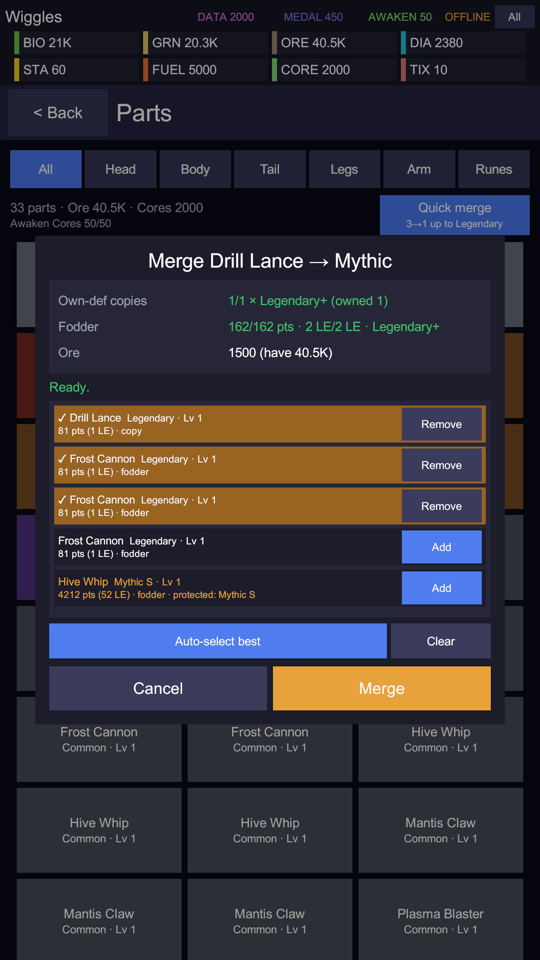
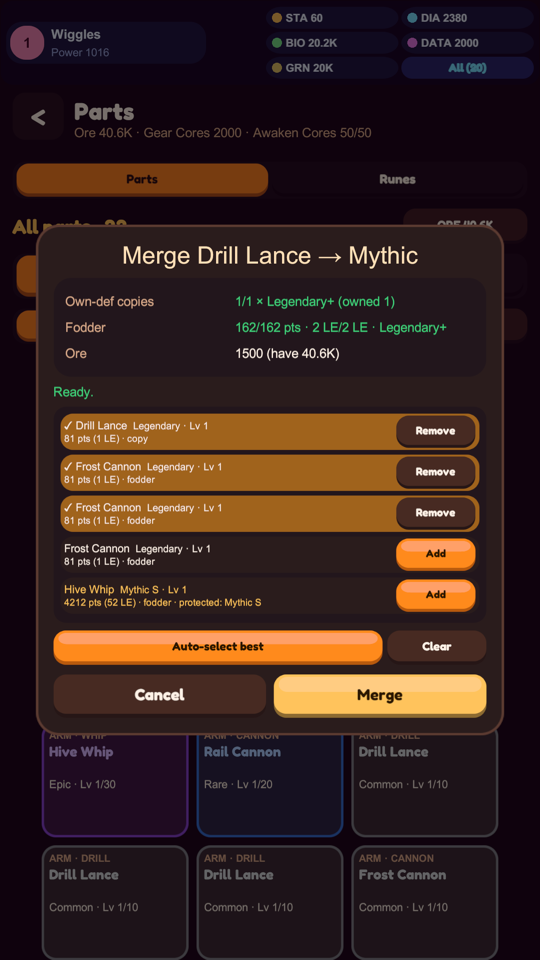
docs: gear screen, currency explainers, Worm badge, tests; refreshed gear screenshots

diff --git a/docs/client.md b/docs/client.md
@@ -15,10 +15,10 @@ referenced as the local UPM package `com.roguestars.rules` and compile into `Rog
 | `Assets/GooglePlayGames/` | `Google.Play.Games` | Google Play Games plugin for Unity v2.3.0 (official `.unitypackage`, without its bundled EDM copy) |
 | `Packages/google/*.tgz` | – | Firebase App/Auth 14.2.0 + External Dependency Manager 1.2.190 from Google's archive, fetched by `scripts/fetch-unity-packages.sh` (git-ignored, SHA-256 pinned) |
 | `Assets/Plugins/Android/RogueStarsConfig.androidlib` | – | manifest additions: Play Billing permission, Firebase Analytics off, `AD_ID` removed while ads are disabled |
-| `Assets/Scripts/App/` | `RogueStars.Client` | `ClientApp` (composition root), `GameSession`, `UiScreen` + `ScreenRouter`, `ToastCenter`, `ResourceBar`, `ScreenCatalog`, `AppBootstrap` |
+| `Assets/Scripts/App/` | `RogueStars.Client` | `ClientApp` (composition root), `GameSession`, `UiScreen` + `ScreenRouter`, `ToastCenter`, `ResourceBar`, `ScreenCatalog`, `AppBootstrap`, `GearGuide` / `CurrencyGuide` (inventory filters, part level-up affordability, currency uses → screens) |
 | `Assets/Scripts/Ui/` | `RogueStars.Client` | `Ui` toolkit (namespace `RogueStars.Client.UiKit`), `Theme`, `UiShapes` (runtime rounded sprites), `UiMotion` (`UiTweens`, `UiBob`, `UiPulse`), `UiTween`, `UiSequence`, `SafeAreaFitter` |
 | `Assets/Resources/Fonts/` | – | `Fredoka-Bold.ttf` (display font: static wght 700 instance of Fredoka[wdth,wght] from the google/fonts repo, made with fontTools `varLib.instancer`) + `Fredoka-OFL.txt` (SIL Open Font License 1.1) |
-| `Assets/Scripts/Screens/` | `RogueStars.Client` | One class per screen |
+| `Assets/Scripts/Screens/` | `RogueStars.Client` | One class per screen (`GearScreen` = shared base of Worm and Parts: inventory, part detail, merge picker, awakening, runes) |
 | `Assets/Scripts/Minigames/` | `RogueStars.Client` | Run mini-games: `Logic/` (one Unity-free class per game + `MinigameLogic` base + `MinigameCatalog`), `MinigameRenderer` (shapes → pooled uGUI nodes), `MinigameHost` (the full-screen flow) |
 | `Assets/Editor/` | `RogueStars.Client.Editor` | `Bootstrap`, `ProjectSetup`, `BuildAndroid` |
 | `Assets/Tests/EditMode/` | `RogueStars.Client.Tests` | EditMode tests |
@@ -36,6 +36,16 @@ AppBootstrap (only object in Main.unity)
      ├─ ToastCenter ── GameEvents (EventText: display names only, never uids/player ids), errors and info: max 2, 1.8 s, in a strip above the screen's bottom bar
      └─ ResourceBar ── profile chip (worm level, name, power → profile: Worm, Settings) + up to 5 currency chips the player has a use for (HubLayout.VisibleCurrencies = the rules' reward-use mapping, RewardGate.CurrencyHasUse; a new account shows stamina and Diamonds) with regen timers (live); "All" opens every balance
 ```
+- **Currency explainers** (`App/GearGuide.cs` → `CurrencyGuide`, `ResourceBar.ShowCurrency`): every currency chip is tappable
+  and opens "Ore — You have 500 — What it's for: Part levels and merges, the Replicator, city buildings" (the rules'
+  `ContentDb.RewardUses` text, the same mapping that decides which currencies show), a line about what the player can do
+  now (Ore: "You can level up 2 equipped parts right now") and **Go to …**: the screen of the first unlocked use
+  (`CurrencyGuide.SpendScreen`: a feature use → the screen its unlock moment opens, `HubLayout.UnlockAction`; a part-rarity
+  use → the Worm; stamina → Portals; Diamonds → Shop once unlocked, else Portals). Already on the Worm/Parts, Go scrolls to
+  the inventory. "All" lists every currency with its use; a row opens its explainer. The part detail's Ore balance and the
+  inventory's ORE chip open the Ore explainer.
+- **Worm tab badge**: "▲ UP" when an equipped part's next level is affordable (`GearGuide.HasAffordableUpgrade`), else "NEW"
+  on its unlock day (`HubScreen.TabBadge`).
 - **Same commands for both modes.** Screens only create rules command objects (`new CityUpgrade { BlueprintId = … }`)
   and call `Session.Run`. They read `Session.State`/`Content` and the rules' static query helpers
   (`CitySystem.UpgradeCost`, `QuestSystem.Visible`, `Features.List`, …) — no game logic in the client.
@@ -152,8 +162,8 @@ AppBootstrap (only object in Main.unity)
 | Run | – | header: pause button (pause modal: Resume / Leave / Abandon), "Level n · name", "Roll r/N · Boss x% awake · Threat t" (N = `RunSystem.BossRollEstimate`: the roll the boss is expected after; its awakening meter is the clock), coins chip; HUD: HP bar, run level/XP bar, **Roll r/N** chip (`RollCounter`), **Skills n** chip (`SkillCount` = `RunSystem.BuildSize`: every skill, skill level and stat perk gained this run), danger and shards chips, "Auto-pick: On/Off" (`AutoPickToggle`), boss banner with its awakening and "x rolls left"; **board** (zoomed in, follows the worm while it hops: `UiScreen.CenterOn`): a long path that never repeats (generated ahead in segments by the rules) drawn as a snake grid (5 columns of 164×94 tiles, 3 lanes per band, `TileCenter`), only a window of it from a little behind the worm to 70 columns ahead (`WindowStart`/`InWindow`, origin a multiple of two bands so tiles keep their place); once the boss arena opens ahead of the worm only the walked path and the arena ("BOSS arena", its own lane) are drawn; resolved tiles keep their look with a ✓ (`TileLook.Cleared`, a beaten fight never turns into a new tile under the worm) drawn flipped so the path starts at the bottom and climbs (`DrawPoint`); tiles are rounded cards outlined and labelled by type (`Theme.TileLabel`/`TileAccent`: FIGHT red, SHOP blue, EVENT purple, CHEST/LOOT gold, REST green, ELITE, MINI BOSS, BUFF, CURSE, TRAP, SHARD, ITEM, START, BOSS gate), walked tiles and edges dimmed / lit, forks marked ("fork"), branch options glow with A/B; **at a fork** (no modal) each option's path is tinted and the tile it would land on with the steps left (`BranchLanding`/`BranchPath`: stops early at a shop or the next fork) gets a big pulsing "A · LAND" / "B · LAND" tap target (`BranchPick:A/B`; the option tile itself is `BranchOption:A/B`), the ROLL button reads "PICK A PATH", campfire-lit tiles show +n%, boss marker ("BOSS n%", a free cell next to the gate, never on a tile); the worm token is a glowing plate with the worm bobbing on it (`UiBob`), hopping tile by tile along the trail; the view follows the token (`RunScreen.LookOf` = the pure tile look). **Bottom bar** (fixed, toast strip reserved above it): dice + last landing text, 4 skill slots (family colours, "+n more", empty = outlined), Loot (count), big **ROLL** (hold for auto; CHOOSE reopens the decision; **FIGHT!** / **ENTER ARENA** at an encounter → `RunEncounter`: a clock miniboss attacks or the worm walks into the boss arena, each fight its own step and playback), **AUTO** on/off, hint line. Decision popups: **event** card (EVENT caption, name, text, option cards with GAIN/RISK/COST/CHANCE/ACCOUNT LOOT chips from the option's outcomes, `RunScreen.OptionTags`, plus the risk text; unaffordable options disabled), **outcome result** (`Modal:Outcome`, from `ActiveRun.LastOutcome` once per `OutcomeSeq`, after any battle playback, before the next decision): "EVENT/CHEST/CAMPFIRE/SHOP RESULT", title, "You chose: …", for chance options a **chance roll** (`ChanceMeter`: "65% chance", a green lucky zone and a red one, a marker sweeping and settling for `ChanceSpinSeconds`, then SUCCESS! / NO LUCK; `RunScreen.InstantOutcomes` = skip mode), then one row per gain/loss with an icon and numbers (`OutcomeLineText`: coins, HP, "+8% ATK for the run", new/lost skill, XP, level-ups, shards, "account loot, paid when you beat the boss", boss awakening and pace, boss strength, danger, fight won/lost) and Continue; shops show their purchases when left; auto mode passes it after `AutoOutcomeSeconds`, **draft** "NEW SKILL!" (1 of 3 cards tinted and outlined by family, FAMILY · RARITY caption, UPGRADE / SYNERGY / "LEVEL n → n+1" chips with the level-up text, reroll); after a beaten miniboss the **MYTHIC** choice (`MythicTitle`, red sheet, "Miniboss defeated — take 1 of 3 Mythic skills"); shop (coins and "n bought this run" line, offer rows with family/rarity or the level-up, price buttons that turn into "Sold" in place — the sheet stays open while buying, `RefreshShop`; reroll, leave), revive (ad / Diamonds / give up), Burrow (descend / cash out); **auto mode**: hold ROLL (or AUTO) → `RunAutoStep` loop for the clear steps (roll, tiles, battles with fast playback), any tap stops it; at a player decision (`RunSystem.RequiresPlayer`) it pauses ("AUTO PAUSED — your choice", tap-to-stop overlay removed), the decision popup stays open, and auto resumes by itself after the decision while still on; "Auto-pick: On/Off" (HUD and Settings, `ClientSettings.AutoPickDrafts`, off by default) = farming: default choices incl. mythic picks, shops buy sensibly (`RunSystem.FarmShopPick`, one purchase per step). Without auto-pick no auto step ever answers a choice: every event / chest / campfire (even single-option) pauses, the event sheet never sends an auto-pick step |
 | Battle playback | – | animates `LastBattle` on a stage (player side left, enemies right, `StagePosition`): rounded role sprites (pink worm pill, A alien, M mount, E/EL/B enemies) with name, HP / shield / rage bars (values straight from the log entries: `TargetHp/TargetShield/TargetRage`, `ActorShield/ActorRage`, fighters' `StartShield/StartRage`), status chips (BURN 2…). Per entry (`UiTweens`, no packages): attacker lunges toward its target (enemies on their turns too, rage attacks further), target flashes white and shakes, floating numbers rise (crits bigger with "CRIT"), DODGE (side-step) / heal / shield / status / RESIST / STUNNED / PARRY / KO popups, HP bars tween down, knocked-out fighters fade; turn-order strip ("NEXT": upcoming actors), round counter, the worm's HP / rage / shield panel, VICTORY / DEFEAT / TIME UP banner, Continue, collapsible battle log, speed ×1/×2 (×3 needs the monthly pass, marked PASS). `BattlePlaybackScreen.Instant` = skip mode (no animations, the log is applied on the next frame, auto playbacks close at once); `TimeScale` speeds scripted playthroughs; auto mode keeps a finished fight on screen at least `MinVisibleSeconds` (1.8 s) in total, so even a one-blow fight is seen |
 | Run result | – | VICTORY / DEFEAT, portal · level · boss defeated, the level's three stars (NEW for feats earned this run), rolls / run level / skills / minibosses / shop buys chips, **skills gained this run** (`GainedSkills`: one chip per gain, "Name Lv n · draft / MYTHIC / shop / event", `RunResultScreen.GainText`), LOOT SECURED reward tiles (or pending loot lost), "Biomass surge ×4 applied" + surge runs left (only once Biomass has a use, `RunSystem.BiomassSurgeActive`), **double rewards** (outlined; rewarded ad, instant with No Ads → `RunDoubleRewards`, daily cap shown), **NEXT: LEVEL n** after a won main run (else PLAY / TRY AGAIN, named `Again`), Back to portals |
-| Worm | `parts` | header card with the worm, name, level and power; level up (×1/×10, Biomass), stats, six body slots (cards outlined and tinted by part rarity, empty = outlined) with equip modal + "Equip best parts", talent road (ranks, tier completion, perk) once `worm_level` unlocks, "All parts" (Parts screen) |
-| Parts | `parts` | 14-step ladder (Common … Mythic, Mythic+1/+2, Mythic S, S+1/+2, Mythic SS, SS+1/+2; `Theme.PartRarityColor`), inventory with slot filters (equipped first, then rarity), quick merge (asks first if locked parts below Legendary exist); detail modal: stats, the five skills locked/unlocked by rarity (Epic/Legendary/Mythic/Mythic S/Mythic SS), level up / cap raise / level reset, equip, **lock** (client-side `PartLocks`, PlayerPrefs per player), rune sockets, Forge, dismantle (confirm for Legendary+/locked); **merge picker**: own-def copies (needed/owned), fodder points and LE, Ore, candidate list with add/remove, auto-select of the best fodder (`PartPlanner`: cheapest set without superfluous parts, other defs first; locked, Mythic+ and Legendary+ copies of equipped defs only as a fallback that needs a confirmation; equipped/awakened/forged never), checked by `PartsSystem.ValidateMerge`; **Replicator** (Mythic+ parts: 10 LE of other-def Legendary+ surplus + Ore → Legendary copy, `ValidateReplicate`); **awakening** (Mythic+, once, 50 Awaken Cores): preview of the new name, stats before → after and the five skills swapped; Runes tab: lock, merge 3→1 |
+| Worm | `parts` | **the gear screen** (`WormScreen : GearScreen`): header card with the worm, name, level and power; level up (×1/×10, Biomass) once `worm_level` unlocks; **"▲ Level up ready" callout** when an equipped part's next level is affordable (`GearGuide.UpgradableEquipped`: "Ore levels up your parts", the first part "Lv n → n+1 · 30 Ore" as a one-tap `PartLevelUp` + Details); "Equip best parts" while slots can be filled; **Equipped**: six body-slot cards (part name, rarity, level, "+n spare" / "n parts fit", ▲ badge when affordable; tap = the inventory below filtered to that slot and scrolled into view, `ShowSlot`); the **inventory** of every owned part (below); stats (`Fmt.StatName`: "Crit chance"); talent road (ranks, tier completion, perk) once `worm_level` unlocks |
+| Parts | `parts` | the same inventory without the worm (`PartsScreen : GearScreen`, subtitle Ore · Gear Cores · Awaken Cores) + a Runes tab (lock, merge 3→1); opened by the Worm's Runes button (once Runes unlock), the Forge unlock and deep links. **Inventory** (`GearScreen.BuildInventory`, queries in `App/GearGuide.cs`): "Inventory · n" + a tappable **ORE** balance (Ore explainer), slot tabs All/Head/Body/Tail/Legs/Arms with counts, sort Best first (equipped, rarity, level) / Level / Slot, a rarity filter (picker of the owned rarities), a 3-column grid of tiles (296×232, fits the 930-unit body) with slot · style, name, "Rarity · Lv n/cap", **EQUIPPED** / LEFT ARM / RIGHT ARM chip and green outline, LOCKED, AWAKE, ▲ badge (equipped + affordable); quick merge (asks first if locked parts below Legendary exist). 14-step ladder (Common … Mythic SS+2; `Theme.PartRarityColor`). **Part detail** (modal with a scrolling body, `Ui.ScrollingColumn`, max 1240): rarity / slot / family chips + "ON LEFT ARM"; **level card**: "Level n / cap", READY chip, **LEVEL UP · 30 Ore** (+ Gear Cores above level 10; green when affordable, else "Needs 30 Ore (you have 10). Ore drops from runs and dismantled parts."), "ORE n · what is Ore?" (explainer), at the cap: raise cap (plates) / merge hint with the next rarity's cap, reset to level 1 (refund); stats now → next level; equip (arms: Equip left / right arm, "On left arm"), **lock** (client-side `PartLocks`, PlayerPrefs per player); the five skills by rarity ("unlocks at Epic"); merge / Replicator; rune sockets; Forge only once unlocked, awakening only for Mythic+; dismantle (+Ore incl. refunds; confirm for Legendary+/locked); **merge picker**: own-def copies (needed/owned), fodder points and LE, Ore, candidate list with add/remove, auto-select of the best fodder (`PartPlanner`: cheapest set without superfluous parts, other defs first; locked, Mythic+ and Legendary+ copies of equipped defs only as a fallback that needs a confirmation; equipped/awakened/forged never), checked by `PartsSystem.ValidateMerge`; **Replicator** (Mythic+ parts: 10 LE of other-def Legendary+ surplus + Ore → Legendary copy, `ValidateReplicate`); **awakening** (Mythic+, once, 50 Awaken Cores): preview of the new name, stats before → after and the five skills swapped |
 | Signals | `part_pulls` (+ per type) | Part / Blueprint / Alien Signals, featured mythic banner with countdown vs standard pool, published odds, 1×/10× with tokens or Diamonds, daily ad pull, reveal animation (a result without a use yet, e.g. hero shards before Heroes, is marked "kept for later": it waits in the reward stash) |
 | Laboratory | `laboratory` | header: Data, next research cost/duration (`LaboratorySystem.NextDataCost`/`NextDurationMs`, Annex ×2), slots busy, Research Annex requirement/staffing (`LaboratoryScreen.AnnexStatus`); active research slots (main/Annex) with Diamonds/ad/free speed-ups and collect; **tree** per branch (offense/defense/elements/command, `LabTreeLayout`: one row per tier, nodes ordered by their prerequisites, no overlaps): stat nodes steel-edged, skill nodes family-coloured with a SKILL band and on/off, edges gold = ALL prerequisites, thin = ANY; node modal: effect now/next, ANY/ALL prerequisites (other branches named), research button with the block reason, draft-pool toggle for skill nodes |
 | Heroes / Mounts | `heroes` / `mounts` | unlock from shards, stars, levels (Hero XP / Fuel), awakening (mounts), equip, trait/weapon skills by star |
@@ -267,7 +277,7 @@ upload key when `ROGUESTARS_KEYSTORE` is set (docs/setup.md step 12), otherwise 
 checked for `com.android.vending.BILLING`. It exits with code 1 on failure.
 
 ## Tests
-EditMode (`Assets/Tests/EditMode`, 205 tests; `RunDepthUiTests`: MYTHIC choice, skill count, shop in place, skills gained, no early surge, encounter step, auto never answers a choice, cleared tiles):
+EditMode (`Assets/Tests/EditMode`, 214 tests; `RunDepthUiTests`: MYTHIC choice, skill count, shop in place, skills gained, no early surge, encounter step, auto never answers a choice, cleared tiles):
 - `MinigameTests`: every game × every tier (56 cases) reaches the tier with its scripted player on seed 7919 within 30 s of
   simulated time and draws its scene; the catalog covers the rules' 14 games with rising thresholds; same seed = same game;
   on the run screen a GAME tile stops the worm and opens the host (name, instruction, prize), Gold → coins + "MINI-GAME
@@ -278,6 +288,16 @@ EditMode (`Assets/Tests/EditMode`, 205 tests; `RunDepthUiTests`: MYTHIC choice, 
   all), resource bar and details list only usable currencies and every balance, the first run's result shows no Biomass/Ore
   tiles while the Parts unlock moment shows "+20 Diamonds", "3 Parts" and the stashed Ore, reward previews (calendar, milestone
   chest, level details) leave locked rewards out, the login/newbie calendars and the shop never name a locked currency.
+- `GearScreenTests` (the owner's level-2 playtest: main level 2 reached for real, Parts unlocked): Ore pays a part level
+  from day 1 (Common level 1→2 = 30 Ore, no Gear Cores below level 10, the unlock gives 500); the Worm tab lists every owned
+  part with EQUIPPED markers (equipped first); slot tabs / rarity picker / sorts (Level, Slot) filter and order the tiles;
+  each body slot opens its inventory filter (both arms → Arms, no modal); part detail shows "30 Ore", READY and the skills,
+  LEVEL UP spends the Ore and reopens on level 2, without Ore it is disabled and says what is missing, "what is Ore?" opens
+  the explainer; the ▲ UP Worm tab badge, slot and tile ▲ badges and the "Level up ready" callout (one-tap level up) appear
+  only while affordable; the Ore chip explains Ore ("You can level up 3 equipped parts right now") and Go opens the Worm (on
+  the Worm it only scrolls); with everything unlocked every visible currency's explainer shows its `RewardUses` text and its
+  Go opens the screen of its use (Ore → Worm, stamina → Portals, Diamonds → Shop, Data → Laboratory, medals → Arena); the
+  "All" list shows every use; a new account's Diamonds go to the Portals.
 - `HubOnboardingTests`: the day-1 hub of a brand-new account (only PLAY, the Planet tab, the teaser "Parts — clear level 1",
   the stamina, Diamonds and profile chips; nothing greyed out), level 1 cleared for real → unlock moment (name, description,
   +20 Diamonds, one action "EQUIP YOUR PARTS") claims the gift and opens the Worm, back = hub with the Worm tab (NEW) and
@@ -349,11 +369,15 @@ PlayMode (`Assets/Tests/PlayMode`, needs a graphics device — run WITHOUT `-nog
   event and draft popups, battle mid-animation and at the end, run result, worm, city — into `$ROGUESTARS_SHOTS_DIR` (default
   `client/RogueStars/Screenshots/showcase/`):
   `ROGUESTARS_SHOTS_DIR=/tmp/shots arch -arm64 $U -batchmode -projectPath $P -logFile /tmp/rs-show.log -runTests -testPlatform PlayMode -testFilter UiShowcaseTests -testResults /tmp/rs-show.xml`
+- `GearShowcaseTests` (**Explicit**: `-testFilter GearShowcaseTests`) renders the gear screens for a main-level-2 player
+  (hub, Worm before/after equipping, slot → filter, part detail, Ore explainer, hub ▲ UP badge, Parts, resources, a
+  48-part inventory) into `$ROGUESTARS_SHOTS_DIR` (default `client/RogueStars/Screenshots/gear/`); curated copies: `docs/client-screenshots/gear_*.png`.
 - `PlaythroughTests.FreshSave_Playthrough_WithScreenshots` boots `Main.unity`, plays a fresh offline save (day-1 hub with
   PLAY only → first run without parts with a manual roll, then auto mode to the boss, making every decision auto pauses at
   through the decision modal (shop: buy a skill then leave, draft: first card, event: default option, branch: path A's
   landing tile on the board, defeat: give up, a GAME tile (none on level 1; for later runs): the mini-game's scripted player plays it for Silver; outcome results are passed by auto, the first one is captured as
-  `10_outcome`) → result → Parts unlock moment → its action opens the Worm → equip the starter parts → hub with the
+  `10_outcome`) → result → Parts unlock moment → its action opens the Worm → equip the starter parts → level one with Ore from
+  the "Level up ready" callout → hub with the
   Worm tab → worm/parts → city build → dev unlock → hub with everything unlocked → 10× Signal with reveal → stamina refill → parts ladder, part detail with skills, Mythic merge picker,
   awakening preview → lab tree with a running research + a capstone node → arena medal shop → Dark Side → every catalog screen) and renders the canvas through a
   1080×1920 RenderTexture camera into `client/RogueStars/Screenshots/` (gitignored). A curated, downscaled set lives
